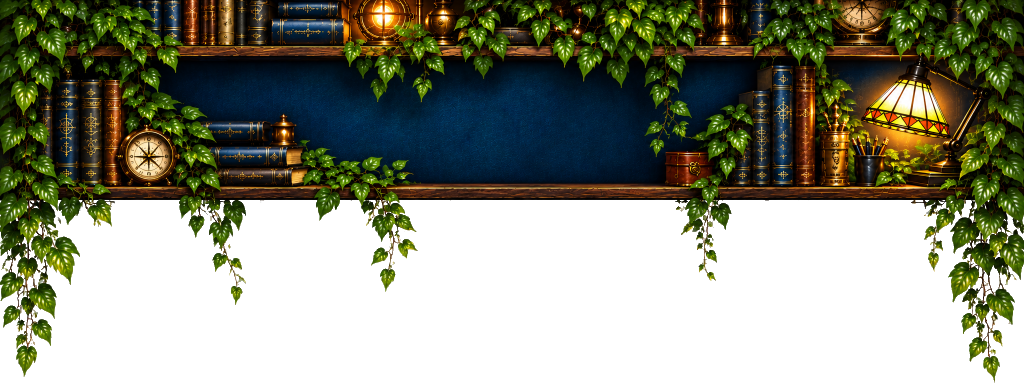
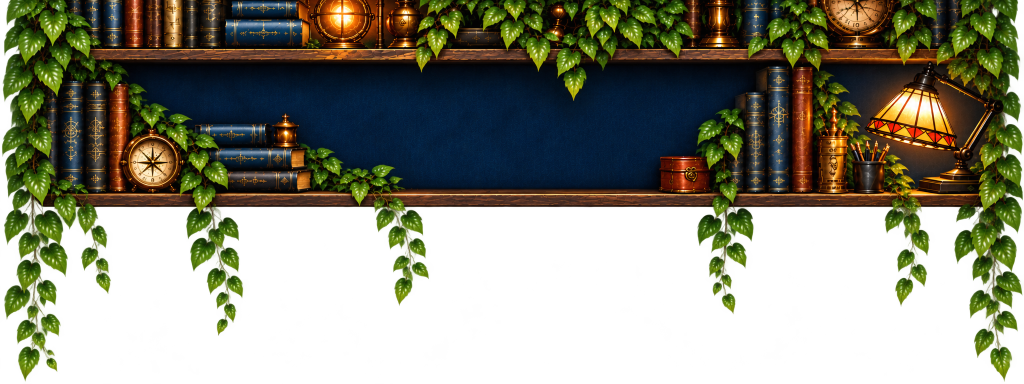
fix(PG-043): remove artificial circle overlays from study shelf header lights

diff --git a/client/src/components/meeting-workspace/MeetingWorkspaceAnimatedHeader.tsx b/client/src/components/meeting-workspace/MeetingWorkspaceAnimatedHeader.tsx
@@ -1,64 +1,16 @@
 import React from "react";
-import { Sparkles, BookOpen } from "lucide-react";
 
 /**
  * MeetingWorkspaceAnimatedHeader — PG-043
  * Panoramic Steampunk Study & Library Shelf Canopy:
  * - Rich antique mahogany shelves lined with leatherbound advocacy books & brass instruments
- * - Banker's stained-glass desk lamp with warm ambient glow & ray casting
- * - Brass lantern with gentle warm hearth flame flicker
+ * - Authentic painted illumination from the stained-glass banker's lamp and lantern (NO artificial circular overlays)
  * - Trailing lush green ivy vines with true alpha transparency draped gracefully over the workspace deck below
  */
 
 export function MeetingWorkspaceAnimatedHeader() {
   return (
     <div className="w-full relative select-none overflow-visible">
-      {/* ── CSS Animations for Lighting & Ambience ── */}
-      <style>{`
-        /* Warm ambient hearth flicker on the round brass lantern */
-        @keyframes lanternHearthFlicker {
-          0%, 100% {
-            opacity: 0.85;
-            filter: drop-shadow(0 0 10px rgba(245, 158, 11, 0.75)) drop-shadow(0 0 20px rgba(217, 119, 6, 0.45));
-          }
-          30% {
-            opacity: 0.7;
-            filter: drop-shadow(0 0 6px rgba(245, 158, 11, 0.55)) drop-shadow(0 0 14px rgba(217, 119, 6, 0.35));
-          }
-          65% {
-            opacity: 0.95;
-            filter: drop-shadow(0 0 14px rgba(251, 191, 36, 0.85)) drop-shadow(0 0 28px rgba(245, 158, 11, 0.55));
-          }
-          85% {
-            opacity: 0.78;
-            filter: drop-shadow(0 0 8px rgba(245, 158, 11, 0.65));
-          }
-        }
-
-        /* Warm glow and desk pool illumination from the banker's lamp */
-        @keyframes bankerLampGlow {
-          0%, 100% {
-            opacity: 0.8;
-            filter: drop-shadow(0 0 12px rgba(251, 191, 36, 0.8)) drop-shadow(0 0 28px rgba(245, 158, 11, 0.5));
-          }
-          50% {
-            opacity: 0.95;
-            filter: drop-shadow(0 0 18px rgba(253, 224, 71, 0.9)) drop-shadow(0 0 36px rgba(245, 158, 11, 0.65));
-          }
-        }
-
-        /* Subtle brass glint on the nautical clock and instruments */
-        @keyframes brassGlint {
-          0%, 100% {
-            opacity: 0.3;
-          }
-          50% {
-            opacity: 0.75;
-            filter: drop-shadow(0 0 4px rgba(255, 227, 148, 0.7));
-          }
-        }
-      `}</style>
-
       {/* ── Panoramic Canopy Container (1024 x 384 native aspect ratio) ── */}
       <div className="relative w-full max-w-[1700px] mx-auto overflow-hidden rounded-b-3xl border-b border-[#3A2C18] bg-[#030914] shadow-[0_16px_45px_rgba(0,0,0,0.95)]">
         
@@ -72,61 +24,8 @@ export function MeetingWorkspaceAnimatedHeader() {
           className="w-full h-auto block select-none pointer-events-none relative z-10"
         />
 
-        {/* ── AMBIENT LIGHTING OVERLAYS (Positioned relative to 1024 x 384) ── */}
+        {/* ── Center Navy Wall Title Branding Plaque ── */}
         <div className="absolute inset-0 pointer-events-none z-20">
-          
-          {/* 1. Central Brass Lantern Hearth Light (x: ~37.2%, y: ~12%) */}
-          <div
-            className="absolute rounded-full mix-blend-screen pointer-events-none"
-            style={{
-              left: "35.5%",
-              top: "6.5%",
-              width: "4.5%",
-              height: "12%",
-              background: "radial-gradient(circle, rgba(254, 240, 138, 0.95) 0%, rgba(245, 158, 11, 0.75) 45%, rgba(180, 83, 9, 0) 75%)",
-              animation: "lanternHearthFlicker 4.2s ease-in-out infinite",
-            }}
-          />
-
-          {/* 2. Banker's Desk Lamp Warm Light Cone (x: ~89%, y: ~28%) */}
-          <div
-            className="absolute rounded-full mix-blend-screen pointer-events-none"
-            style={{
-              left: "86.5%",
-              top: "20%",
-              width: "6.5%",
-              height: "18%",
-              background: "radial-gradient(ellipse at 50% 40%, rgba(254, 240, 138, 0.9) 0%, rgba(245, 158, 11, 0.65) 50%, rgba(146, 64, 14, 0) 80%)",
-              animation: "bankerLampGlow 5.5s ease-in-out infinite",
-            }}
-          />
-
-          {/* Warm pool of light cast onto the bottom right counter */}
-          <div
-            className="absolute rounded-full mix-blend-screen pointer-events-none opacity-40"
-            style={{
-              left: "84%",
-              top: "34%",
-              width: "11%",
-              height: "16%",
-              background: "radial-gradient(ellipse at 50% 50%, rgba(251, 191, 36, 0.55) 0%, rgba(217, 119, 6, 0.25) 50%, rgba(0, 0, 0, 0) 80%)",
-            }}
-          />
-
-          {/* 3. Antique Brass Clock Dial Subtle Glint (x: ~14.5%, y: ~41%) */}
-          <div
-            className="absolute rounded-full mix-blend-screen pointer-events-none"
-            style={{
-              left: "13.2%",
-              top: "37%",
-              width: "3.2%",
-              height: "8.5%",
-              background: "radial-gradient(circle, rgba(255, 244, 212, 0.6) 0%, rgba(197, 160, 89, 0.2) 60%, rgba(0, 0, 0, 0) 90%)",
-              animation: "brassGlint 6s ease-in-out infinite",
-            }}
-          />
-
-          {/* Center Navy Wall Title Branding Plaque (x: ~36% to 64%, y: ~28% to ~44%) */}
           <div
             className="absolute flex flex-col items-center justify-center text-center pointer-events-none"
             style={{
@@ -151,8 +50,8 @@ export function MeetingWorkspaceAnimatedHeader() {
               </p>
             </div>
           </div>
-
         </div>
+
       </div>
     </div>
   );
